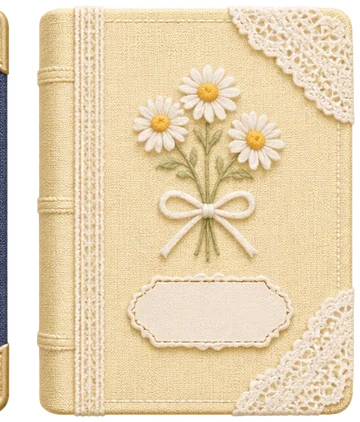
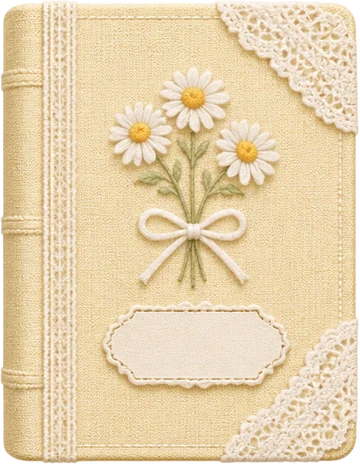
Phone: 한 단 끝 alone on its lace (the next row under it), delete from 따라 뜨기's ··· and a ··· on 도안집's card; cover 12 without the book at its edge; the ··· sheet no longer mentions the book

diff --git a/app/track/page.tsx b/app/track/page.tsx
@@ -106,7 +106,7 @@ function PhoneMeasure({ p, onApply, onLater }: { p: Project; onApply: (h: number
 }
 
 export function TrackScreen() {
-  const { ready, active: p, updateProject } = useApp();
+  const { ready, active: p, updateProject, removeProjects } = useApp();
   const router = useRouter();
   const cvRef = useRef<HTMLCanvasElement>(null);
   const [wakeOn, setWakeOn] = useState(false);
@@ -254,10 +254,9 @@ export function TrackScreen() {
           <div className="ms-foot-row">
             <StitchButton icon={DiaryIcon.undo} label="되돌리기" aria-label="한 단 되돌리기" disabled={current === 0} onClick={() => step(-1)} />
             <div className="ms-go">
-              {/* the slim lavender lace: 한 단 끝, and the next row under it on the same satin */}
-              <LaceButton variant="lavender" width="fill" className="mst-done" disabled={done} onClick={() => step(1)}>
-                <span>한 단 끝</span><small>{done ? "다 떴어요" : nx ? `다음 ${nx.label} · ${nx.n}코` : "마지막 단"}</small>
-              </LaceButton>
+              {/* the slim lavender lace: 한 단 끝 alone on its satin (two lines crowded it, Kim); the next row under it */}
+              <LaceButton variant="lavender" width="fill" disabled={done} onClick={() => step(1)}>한 단 끝</LaceButton>
+              <p className="ms-go-sub">{done ? "다 떴어요" : nx ? `다음 ${nx.label} · ${nx.n}코` : "마지막 단"}</p>
             </div>
           </div>
         </div>
@@ -274,6 +273,8 @@ export function TrackScreen() {
           <MoreSheet title="나가도 지금 단까지 저장돼요" onClose={() => setMore(false)} items={[
             { key: "sheet", icon: "sheet", label: "도안 전체 보기", onClick: () => router.push("/pattern") },
             { key: "again", icon: "again", label: "처음 단부터 다시", danger: true, confirm: "지금까지 뜬 단을 지우고 1단부터 다시 할까요?", onClick: () => { setMore(false); updateProject(p.id, { current: 0, status: "knitting", pausedAt: null }); } },
+            // the work itself, from where it is being knitted (Kim: there was no delete for it here)
+            { key: "delete", icon: "trash", label: "이 작품 지우기", danger: true, confirm: "이 작품과 뜬 기록을 지울까요? 되돌릴 수 없어요.", onClick: () => { setMore(false); removeProjects([p.id]); router.push("/mine"); } },
           ]} />
         )}
       </main>

diff --git a/components/mobile/MobileMine.tsx b/components/mobile/MobileMine.tsx
@@ -99,6 +99,10 @@ export function MobileMine() {
             <section className="mm-hook" aria-labelledby="mmHook">
               <p className="mm-kick" id="mmHook" lang="en">On the hook <span lang="ko">· 지금 뜨는 중</span></p>
               <div className="mm-card">
+                {/* the work's sheet (도안 고치기 ... 삭제), as tapping its cover does (Kim: delete was not to be found) */}
+                <button type="button" className="mm-card-more" aria-label={`${hook.name} 더 보기`} aria-haspopup="dialog" onClick={() => setOpen(hook.id)}>
+                  <svg viewBox="0 0 24 24" aria-hidden="true"><circle cx="5.5" cy="12" r="1.6" fill="currentColor" /><circle cx="12" cy="12" r="1.6" fill="currentColor" /><circle cx="18.5" cy="12" r="1.6" fill="currentColor" /></svg>
+                </button>
                 <div className="mm-card-in">
                   <button type="button" className="mm-card-cover" aria-label={`${hook.name} 자세히`} onClick={() => setOpen(hook.id)}><Cover p={hook} w={74} /></button>
                   <div className="mm-card-text">

diff --git a/components/mobile/MoreSheet.tsx b/components/mobile/MoreSheet.tsx
@@ -26,8 +26,8 @@ export function MoreSheet({ title, items, onClose }: { title: string; items: Mor
   const [asking, setAsking] = useState<string | null>(null), y0 = useRef<number | null>(null), [drag, setDrag] = useState(0);
   useEffect(() => { const k = (e: KeyboardEvent) => { if (e.key === "Escape") onClose(); }; addEventListener("keydown", k); return () => removeEventListener("keydown", k); }, [onClose]);
   const common: MoreItem[] = [
-    { key: "home", icon: "home", label: "처음으로", sub: "책 첫 페이지", onClick: () => router.push("/") },
-    { key: "new", icon: "plus", label: "새 도안 만들기", sub: "책이 펼쳐져요", onClick: () => { onClose(); newDraft(); } },
+    { key: "home", icon: "home", label: "처음으로", sub: "홈 화면", onClick: () => router.push("/") },
+    { key: "new", icon: "plus", label: "새 도안 만들기", onClick: () => { onClose(); newDraft(); } },
     { key: "mine", icon: "shelf", label: "나의 도안집", onClick: () => router.push("/mine") },
   ];
   const row = (it: MoreItem) => asking === it.key ? (

diff --git a/components/mobile/mine-mobile.css b/components/mobile/mine-mobile.css
@@ -59,6 +59,9 @@
   .mm-card::before,.mm-card::after{content:"";position:absolute;top:10px;bottom:10px;border-left:1.5px dashed #C4B5DD}
   .mm-card::before{left:7px}.mm-card::after{right:7px}
   .mm-card-in{display:flex;gap:14px;align-items:flex-start}
+  .mm-card-more{position:absolute;right:6px;top:4px;z-index:1;display:grid;place-items:center;width:44px;height:44px;padding:0;border:0;background:none;color:#6B5D55;cursor:pointer}
+  .mm-card-more svg{width:20px;height:20px}
+  .mm-card-text{padding-right:26px}
   .mm-card-cover{flex:none;padding:0;border:0;background:none;cursor:pointer}
   .mm-card-cover .mm-cover{padding:10px 8px 8px 14px;gap:4px}
   .mm-card-cover .mm-icon{width:30px;height:30px}

diff --git a/lib/covers.ts b/lib/covers.ts
@@ -16,7 +16,7 @@ export const COVERS: Cover[] = [
   { id: "09", plate: [42.3, 67.3, 41.8, 12.8] },
   { id: "10", plate: [35.5, 67.2, 43.2, 12.9] },
   { id: "11", plate: [44.1, 67.4, 44.5, 12.9] },
-  { id: "12", plate: [38.2, 67.4, 41.4, 12.8] },
+  { id: "12", plate: [31.8, 67.6, 45.9, 13.4] }, // cropped: another book stood at its left edge
   { id: "dark_01", plate: [46.4, 73.4, 39.5, 11.3], dark: true },
   { id: "dark_02", plate: [39.1, 73.6, 38.2, 11.2], dark: true },
   { id: "dark_03", plate: [52.3, 73.1, 30.5, 10.7], dark: true },
